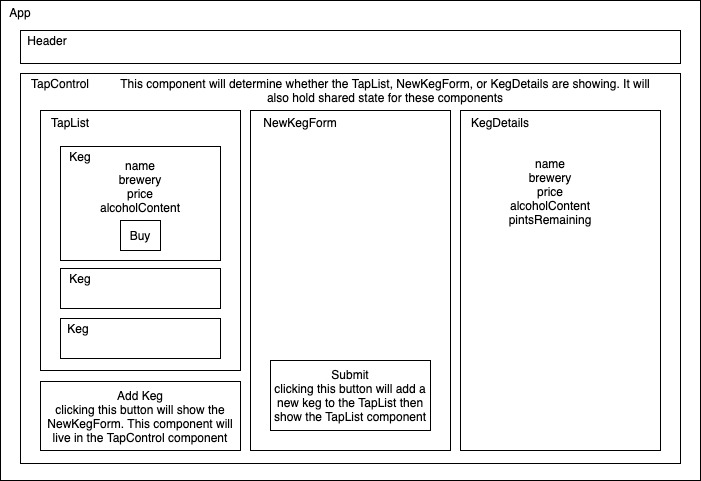
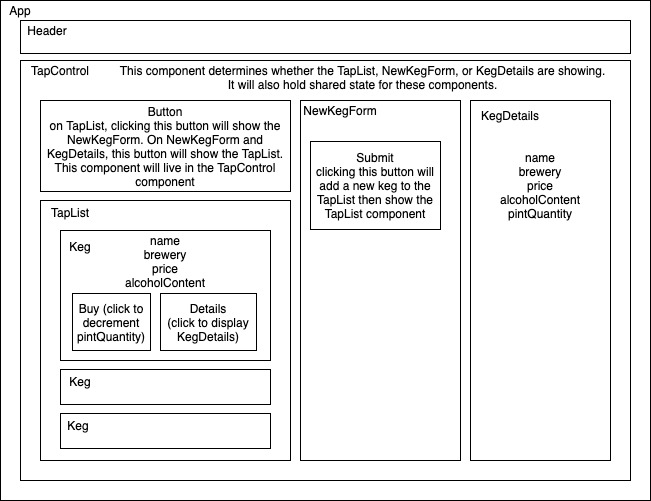
further refine component tree to depict rearrangement of buy and details buttons

Changed region(s): [[0.0, 0.0, 0.9831, 0.9667], [0.7066, 0.3119, 0.8909, 0.499]]

diff --git a/README.md b/README.md
@@ -1,4 +1,4 @@
-# _Taproom_
+# _React Taproom_
 
 #### _React fundamentals independent project for Epicodus_, _April 24, 2020_
 
@@ -6,16 +6,17 @@
 
 ## Description
 
-_This application is a taproom where a bar can track their kegs._
+_This application, built using Create React App, is a taproom where a bar can track their kegs._
 
 ## Specification user stories:
 
-* A user is able to see a list/menu of all available kegs. For each keg, the user is able to see its name, brewery, price, and alcohol content.
+* A user is able to see a list/menu of all available kegs. For each keg, the user is able to see its name, brewery, price, and alcohol content (ABV).
 * A user is able to submit a form to add a new keg to the list.
 * A user is able to click on a keg to see its details page.
-* A user is able to see how many pints are remaining in a keg (a full keg is assumed to include 124 pints).
+* A user is able to see how many pints are remaining in a keg (a full keg is assumed to include 124 pints). The pint quantity remaining in a keg is displayed on that keg's detail page.
 * A user is able to click a "buy" button next to a keg whenever a pint is sold. This decreases the number of pints remaining by 1.
-* A keg is unable to be poured from (pint count decremented) when the keg is empty.
+* When there are between 0 and 10 pints remaining in a keg, a user is able to see that the keg is almost gone (indicated on the "buy" button).
+* A keg is unable to be poured from (pint count decremented) when the keg is empty. Instead, a user is able to see a note that the keg is empty.
 
 ## Component Tree
 ![component tree](/ComponentTree.jpg)
@@ -44,9 +45,11 @@ _Enter the following commands in Terminal (macOS) or PowerShell (Windows):_
 * ``cd desktop``
 * ``git clone https://github.com/michelle-morin/taproom``
 * ``cd taproom``
-* ``npm install``
 
 _Confirm that you have navigated to the taproom directory (e.g., by entering the command_ ``pwd`` _in Terminal)._
+_Next, install npm at the project's root directory by entering the following commands in Terminal (macOS) or PowerShell (Windows):_
+* ``npm install``
+* ``npm start``
 
 _To view/edit the source code of this application, open the contents of the taproom directory in a text editor or IDE of your choice (e.g., to open all contents of the directory in Visual Studio Code on macOS, enter the command_ ``code .`` _in Terminal)._
 
@@ -55,7 +58,6 @@ _To view/edit the source code of this application, open the contents of the tapr
 * _CSS_
 * _JavaScript_
 * _React_
-* _JSX_
 * _Webpack_
 * _npm_
 
